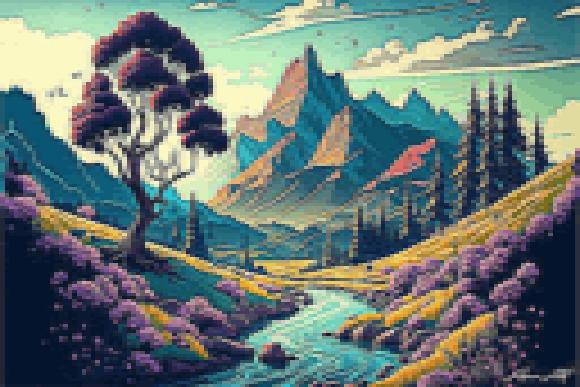
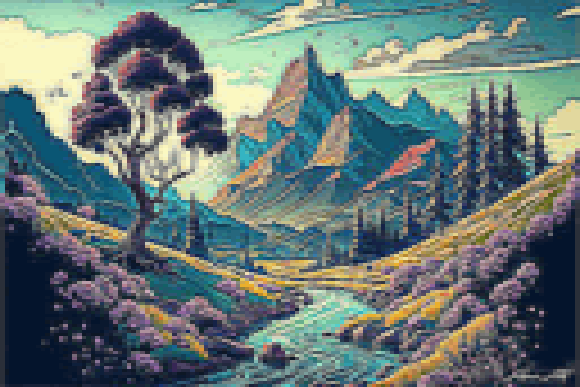
update

diff --git a/script.py b/script.py
@@ -75,9 +75,9 @@ def create_custom_palette(use_custom_palette=True):
         # Return detected palette from image data
         return None  # This will be handled in the process_image function
 
-def apply_unsharp_mask(image, kernel_size=(5, 5), sigma=1.0, strength=12):
+def apply_unsharp_mask(image, kernel_size=(5, 5), sigma=1.0, strength=3):
     """
-    Apply an unsharp mask to an image.
+    Apply an unsharp mask to an image and enhance border pixels with strongest color.
 
     Parameters:
     image (np.ndarray): The input image.
@@ -90,8 +90,18 @@ def apply_unsharp_mask(image, kernel_size=(5, 5), sigma=1.0, strength=12):
     """
     blurred = cv2.GaussianBlur(image, kernel_size, sigma)
     sharpened = float(strength + 1) * image - float(strength) * blurred
-    sharpened = np.clip(sharpened, 0, 255)
-    return sharpened.astype(np.uint8)
+    sharpened = np.clip(sharpened, 0, 255).astype(np.uint8)
+
+    # Enhance border pixels with strongest color
+    Lx, Ly, Lc = image.shape
+    for i in range(Lx):
+        for j in range(Ly):
+            if i == 0 or i == Lx - 1 or j == 0 or j == Ly - 1:
+                # Find the strongest color among the neighboring pixels
+                max_color = np.max(image[max(i-1, 0):min(i+2, Lx), max(j-1, 0):min(j+2, Ly)], axis=(0, 1))
+                sharpened[i, j] = max_color
+
+    return sharpened
 
 def process_image(image_path, pixelation_size, n_colors, contrast, use_floyd_steinberg, apply_unsharp, use_custom_palette):
     """
@@ -141,7 +151,7 @@ def process_image(image_path, pixelation_size, n_colors, contrast, use_floyd_ste
     return pixel_image, palette_info
 
 # Original Image
-image_original = r"C:\Development\AIICP\Images\Untreated\mountain.jpg"
+image_original = r"C:\Development\AIICP\Images\Untreated\river_mountain.jpeg"
 
 # Remove the extension
 old_filename = os.path.splitext(os.path.basename(image_original))[0]
